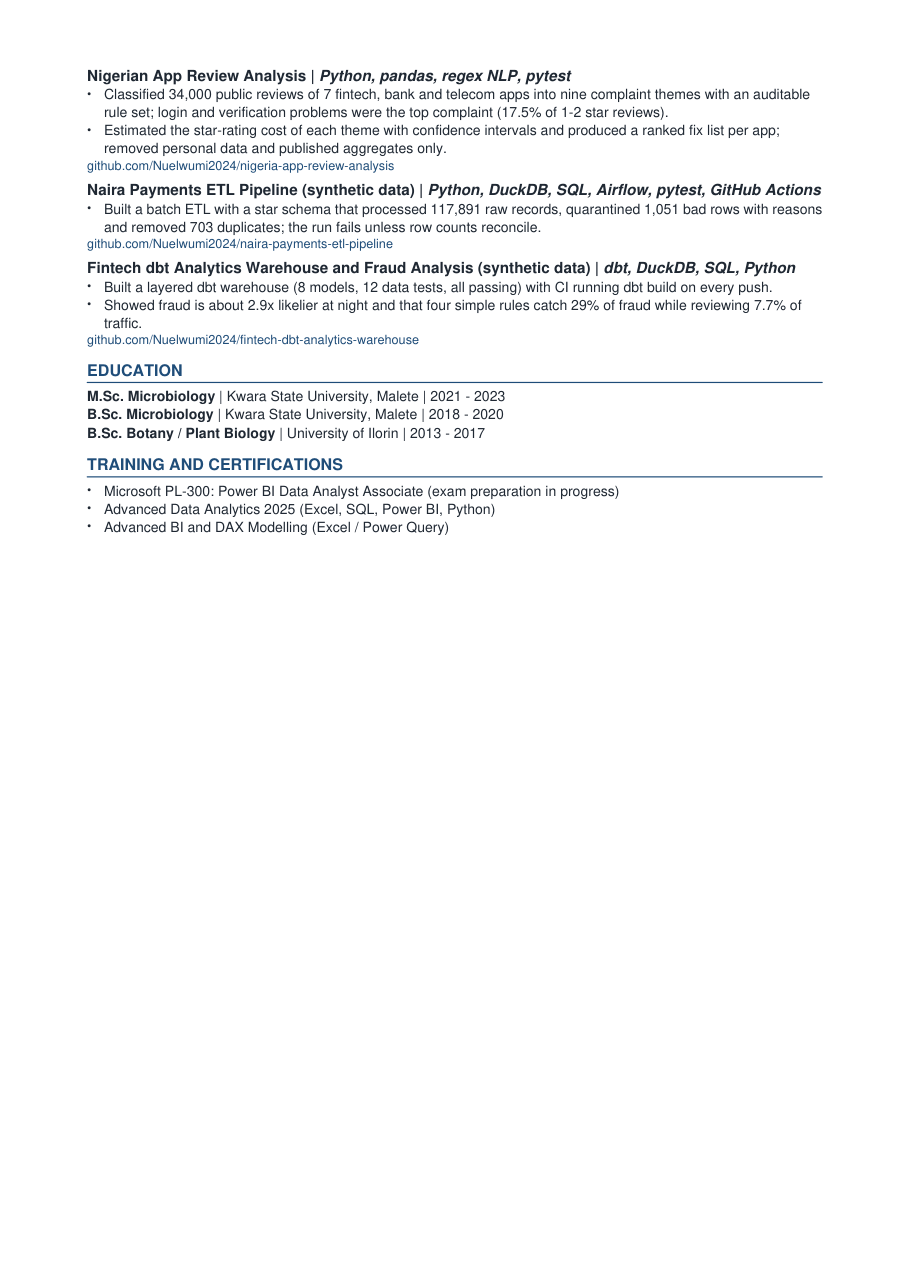
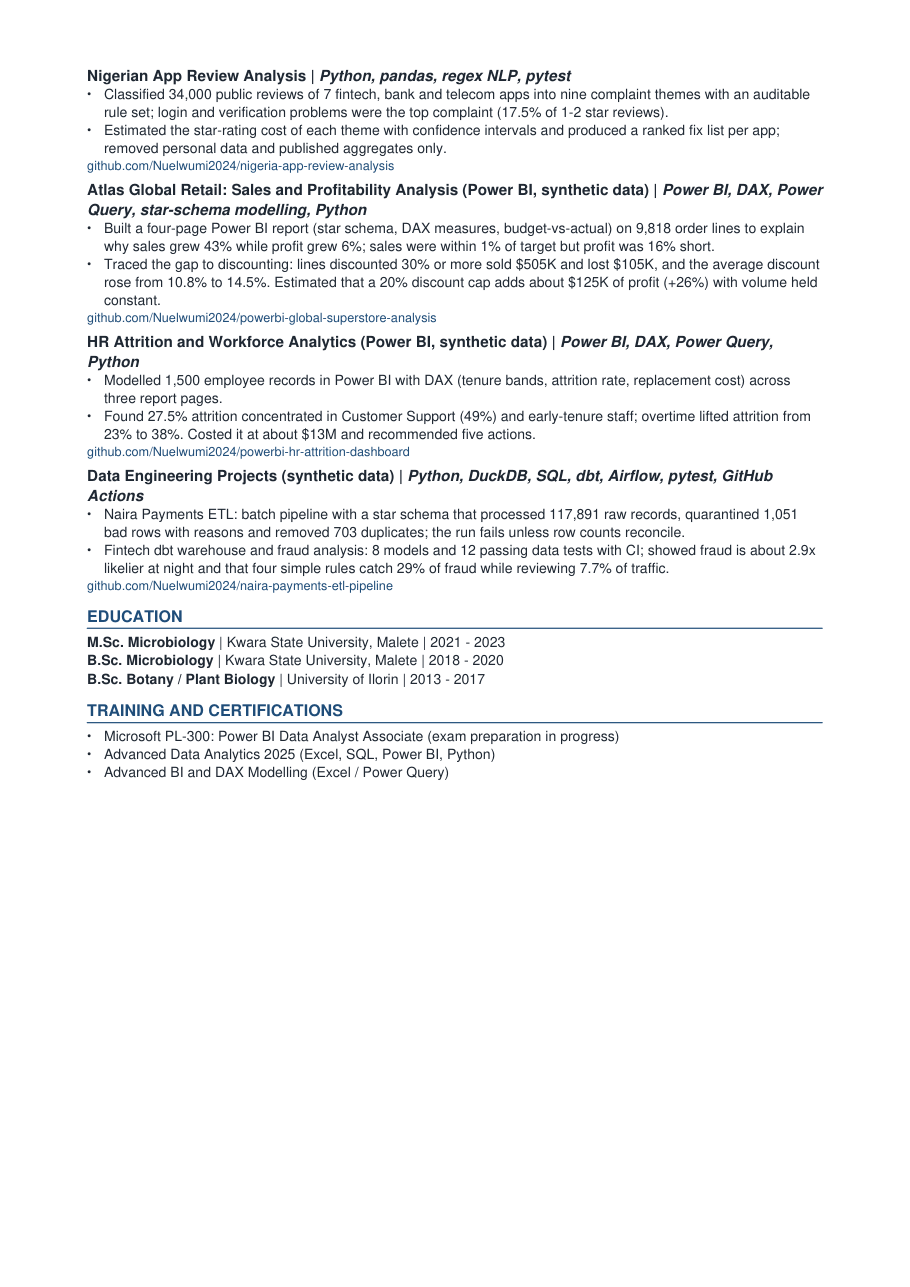
Add Atlas Global Retail and HR Attrition Power BI projects to the CV

Changed region(s): [[0.0923, 0.1243, 0.8923, 0.6216]]

diff --git a/src/cv_content.py b/src/cv_content.py
@@ -17,8 +17,8 @@ SUMMARY = (
     "now working in sales analytics. M.Sc. in Microbiology, with earlier experience in laboratory and quality "
     "assurance, which built a habit of validating data, tracing deviations to root cause and reporting "
     "clearly to management. Builds end-to-end analytics projects on Nigerian data (inflation, payments, "
-    "distribution, customer reviews) with tested code, stated limitations and recommendations a decision-maker "
-    "can act on."
+    "distribution, customer reviews) and Power BI case studies in retail and HR, with tested code, stated "
+    "limitations and costed recommendations a decision-maker can act on."
 )
 
 SKILLS = [
@@ -96,20 +96,30 @@ PROJECTS = [
         ],
     },
     {
-        "name": "Naira Payments ETL Pipeline (synthetic data)",
-        "stack": "Python, DuckDB, SQL, Airflow, pytest, GitHub Actions",
-        "url": "github.com/Nuelwumi2024/naira-payments-etl-pipeline",
+        "name": "Atlas Global Retail: Sales and Profitability Analysis (Power BI, synthetic data)",
+        "stack": "Power BI, DAX, Power Query, star-schema modelling, Python",
+        "url": "github.com/Nuelwumi2024/powerbi-global-superstore-analysis",
         "bullets": [
-            "Built a batch ETL with a star schema that processed 117,891 raw records, quarantined 1,051 bad rows with reasons and removed 703 duplicates; the run fails unless row counts reconcile.",
+            "Built a four-page Power BI report (star schema, DAX measures, budget-vs-actual) on 9,818 order lines to explain why sales grew 43% while profit grew 6%; sales were within 1% of target but profit was 16% short.",
+            "Traced the gap to discounting: lines discounted 30% or more sold $505K and lost $105K, and the average discount rose from 10.8% to 14.5%. Estimated that a 20% discount cap adds about $125K of profit (+26%) with volume held constant.",
         ],
     },
     {
-        "name": "Fintech dbt Analytics Warehouse and Fraud Analysis (synthetic data)",
-        "stack": "dbt, DuckDB, SQL, Python",
-        "url": "github.com/Nuelwumi2024/fintech-dbt-analytics-warehouse",
+        "name": "HR Attrition and Workforce Analytics (Power BI, synthetic data)",
+        "stack": "Power BI, DAX, Power Query, Python",
+        "url": "github.com/Nuelwumi2024/powerbi-hr-attrition-dashboard",
         "bullets": [
-            "Built a layered dbt warehouse (8 models, 12 data tests, all passing) with CI running dbt build on every push.",
-            "Showed fraud is about 2.9x likelier at night and that four simple rules catch 29% of fraud while reviewing 7.7% of traffic.",
+            "Modelled 1,500 employee records in Power BI with DAX (tenure bands, attrition rate, replacement cost) across three report pages.",
+            "Found 27.5% attrition concentrated in Customer Support (49%) and early-tenure staff; overtime lifted attrition from 23% to 38%. Costed it at about $13M and recommended five actions.",
+        ],
+    },
+    {
+        "name": "Data Engineering Projects (synthetic data)",
+        "stack": "Python, DuckDB, SQL, dbt, Airflow, pytest, GitHub Actions",
+        "url": "github.com/Nuelwumi2024/naira-payments-etl-pipeline",
+        "bullets": [
+            "Naira Payments ETL: batch pipeline with a star schema that processed 117,891 raw records, quarantined 1,051 bad rows with reasons and removed 703 duplicates; the run fails unless row counts reconcile.",
+            "Fintech dbt warehouse and fraud analysis: 8 models and 12 passing data tests with CI; showed fraud is about 2.9x likelier at night and that four simple rules catch 29% of fraud while reviewing 7.7% of traffic.",
         ],
     },
 ]
@@ -126,4 +136,4 @@ CERTIFICATIONS = [
     "Advanced BI and DAX Modelling (Excel / Power Query)",
 ]
 
-PORTFOLIO_LINE = "Portfolio of 8 projects with code, tests and write-ups: github.com/Nuelwumi2024"
+PORTFOLIO_LINE = "Portfolio of 10 projects with code, tests and write-ups: github.com/Nuelwumi2024"
